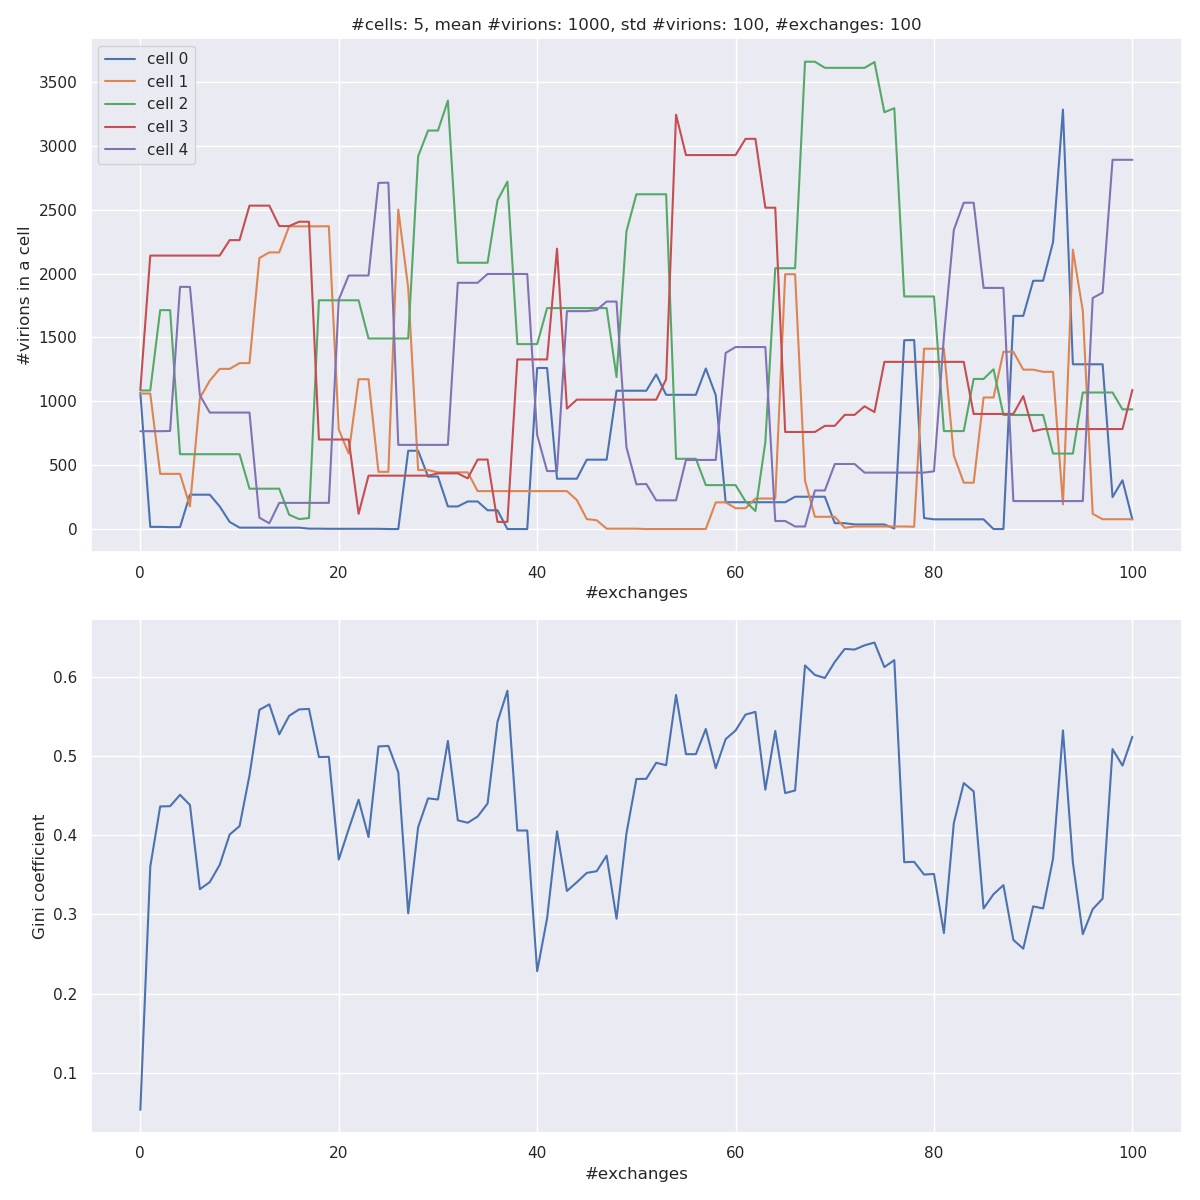
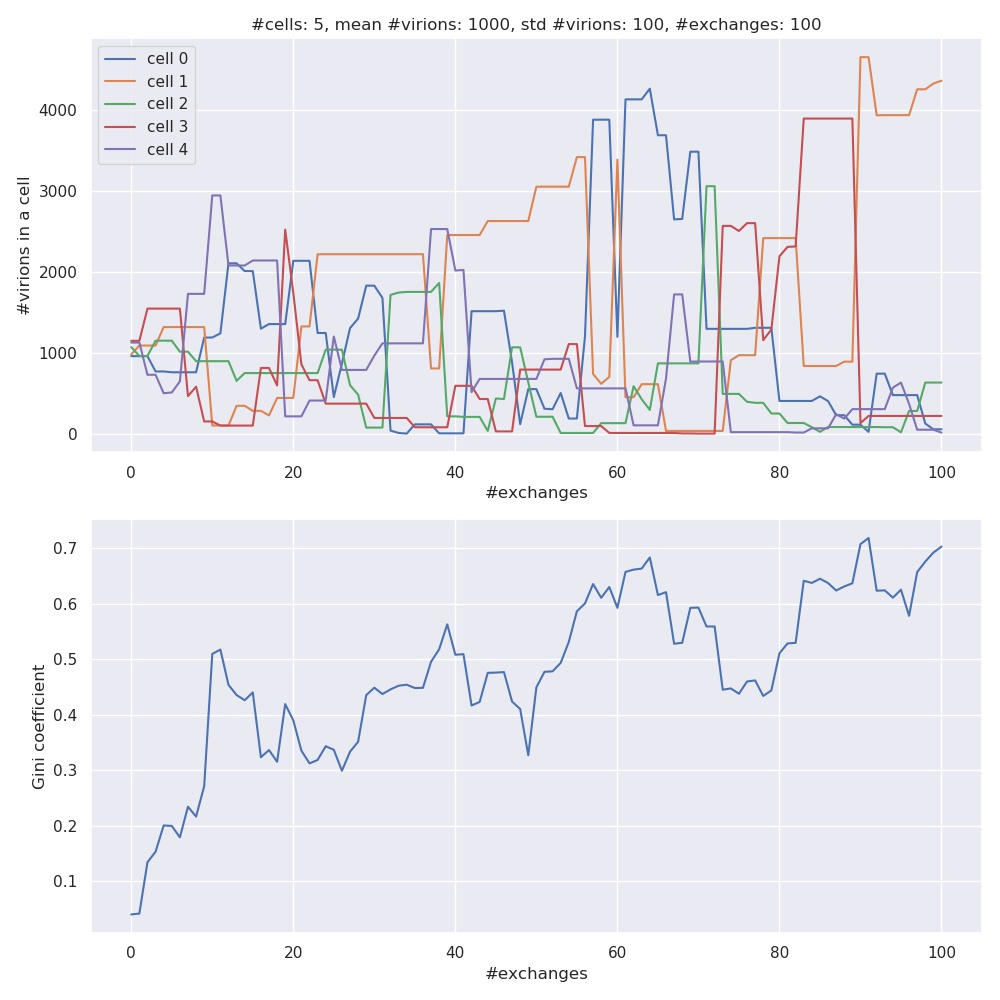
finished report

diff --git a/RNA_viruses.py b/RNA_viruses.py
@@ -35,9 +35,9 @@ if __name__ == "__main__":
 
 
     #Parameters
-    N = 5 #number of cells
-    mV = 1000 #mean number of virions in a cell
-    sV = 100 #standard deviation of the number of virions in a cell
+    N = 50 #number of cells
+    mV = 10 #mean number of virions in a cell
+    sV = 3 #standard deviation of the number of virions in a cell
 
     #initializing the cells with random number of virions
     VV = np.random.normal(loc = mV, scale = sV, size = N).round() #Normal/Gaussian random numbers are rounded to the closest integer
@@ -49,7 +49,7 @@ if __name__ == "__main__":
 
 
     #simulating exchanges of virions between cells
-    n = 100 #number of virion exchanges
+    n = 10**4 #number of virion exchanges
 
     VV_n = [np.copy(VV)]
     G_n = [G]
@@ -71,12 +71,12 @@ if __name__ == "__main__":
     VV_n = np.array(VV_n)
     G_n = np.array(G_n)
     nn = np.arange(n+1)
-    fig, axs = plt.subplots(2, 1, figsize = (12, 12))
+    fig, axs = plt.subplots(2, 1, figsize = (10, 10))
     for n_cell, V_n in enumerate(VV_n.T):
         axs[0].plot(nn, V_n, label = f'cell {n_cell}')
         axs[0].set_xlabel('#exchanges')
         axs[0].set_ylabel('#virions in a cell')
-        if n_cell > 10:
+        if n_cell > 4:
             break
     axs[0].legend()
     axs[0].set_title(f'#cells: {N}, mean #virions: {mV}, std #virions: {sV}, #exchanges: {n}')

diff --git a/README.md b/README.md
@@ -10,7 +10,26 @@ Create a simulation of viruses (RNA entities) that are infecting a host (a syste
 * Scale up the simulation to any number of timesteps and initial cells you want (pay attention that there are combinatorial effects of computing time, and your simulation might crash easily, therefore scale up marginally). Plot the time series of the Gini coefficient. Plot the distribution of cells at the start of the simulation and at the end of the simulation. What has changed? 
 * Change the initialization of the population of cells to be uniformly distributed and replot the timeseries of the Gini coefficient and the initial and final distributions of infected cells. (10 pt.) 1 E.g., influenza virus can contain 500-1000 virions inside a cell, while HIV can contain about 1-12 
 
-
 ##Results
 ###Simulation with 5 cells and 100 exchange events
+The numbers of virions in cells and the Gini index for the initial simulation with 5 cells and 100 exchange events are shown in the figure below:
 ![5 cells](./figs/5cells_1000virions_100std_100steps.jpg)
+
+
+###Scaled-up simulation
+Below is the result of a scaled-up simulation with 50 cells and 10000 exchange events
+![50 cells](./figs/50cells_1000virions_100std_10000steps.jpg) 
+
+###Distributions at the start and the end of the simulation
+Due to the relatively narrow width of the initial Gaussian distribution the initial numbers of virions in cells are approximately equal, which results in low Gini coefficient. Later one obtains very uneven distribution of virions between cells and much higher G. The initial and the final distributions are shown below (`N = 50, n = 10000`):
+![50 cells before and after](./figs/distrib_50cells_1000virions_100std_10000steps.jpg)
+
+In order to have a smoother bell-shaped Gaussian curve in the beginning one may run simulation with a greater number of cells, e.g. N = 500, n = 10000:
+![500 cells before and after](./figs/distrib_500cells_1000virions_100std_10000steps.jpg)
+
+###Influenza vs. HIV
+We have run the simulation for Influenza case (taking the average number of virions in the cell to be 1000). We now rerun it for HIV (average number of virions: 10, standard deviation: 3, N = 50, n = 10000)  
+![50 cells](./figs/50cells_10virions_3std_10000steps.jpg)
+
+![50 cells before and after](./figs/distrib_50cells_10virions_3std_10000steps.jpg)
+
